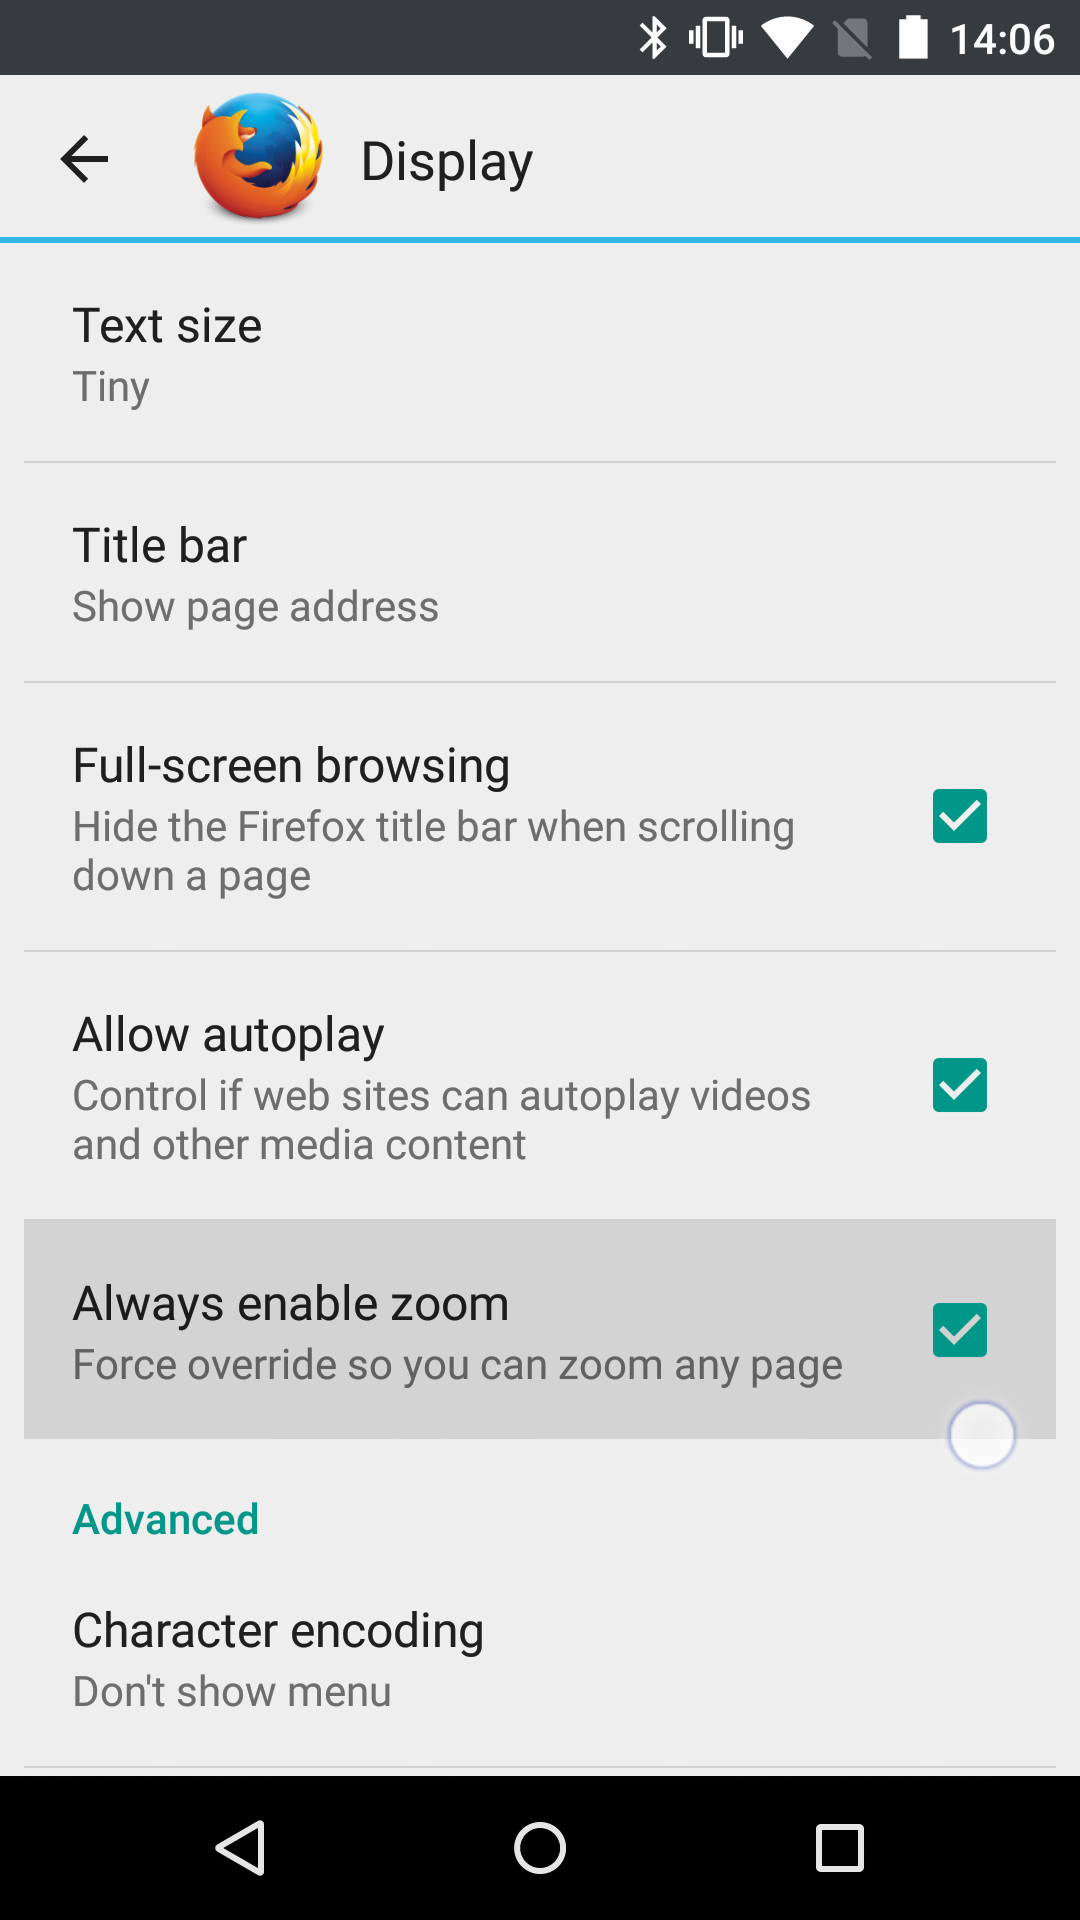
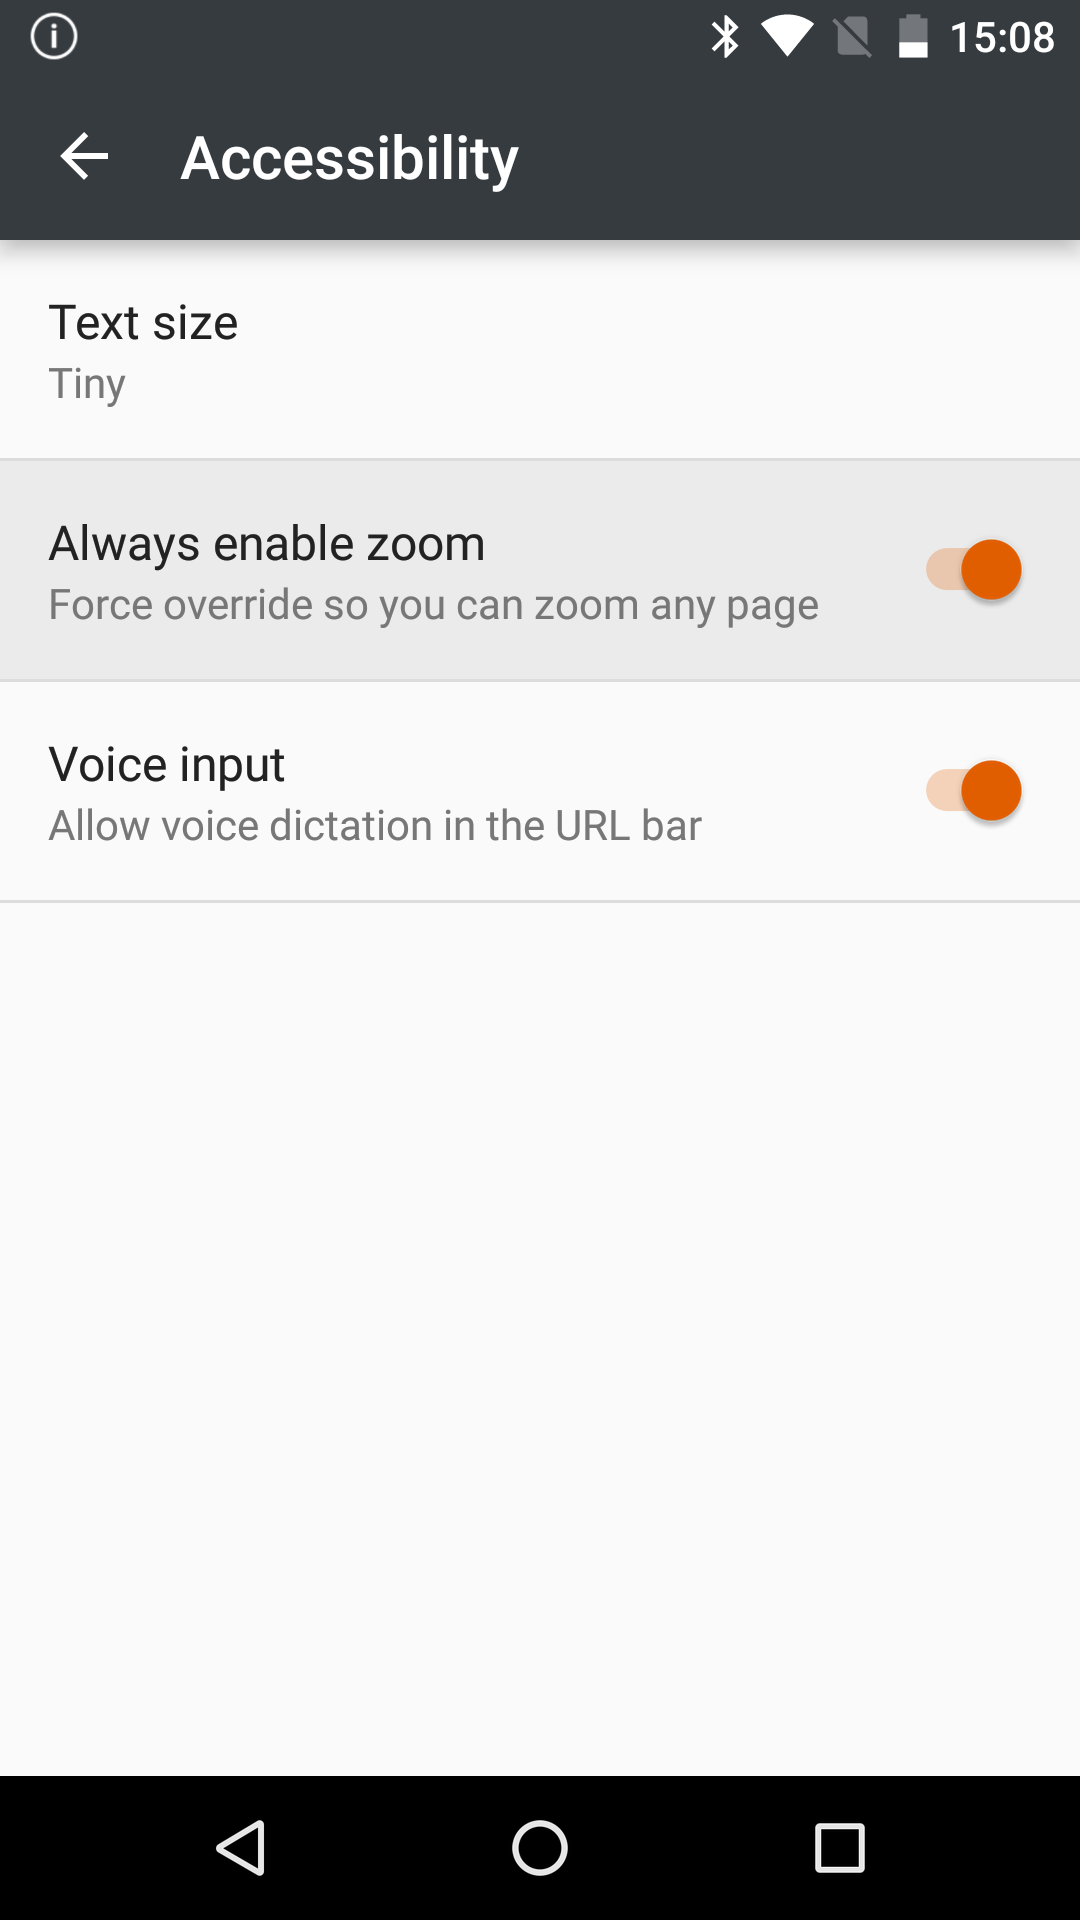
Update Firefox force enable zoom screenshot and add context to screenshots

diff --git a/index.html b/index.html
@@ -1010,24 +1010,28 @@ foo.addEventListener('click', ...);
 
 <section class="slide"><div>
     <img src="pictures/android/chrome-force-enable-zoom-settings.png" alt="Chrome's 'Force enable zoom' setting">
+    <p><small>Chrome: Settings > Accessibility > Force enable zoom</small></p>
 </div></section>
 
 <!-- -->
 
 <section class="slide"><div>
     <img src="pictures/android/opera4.3-force-enable-zoom-settings.png" alt="Opera/Android's 'Force enable zoom' setting">
+    <p><small>Opera: Settings > Force enable zoom</small></p>
 </div></section>
 
 <!-- -->
 
 <section class="slide"><div>
     <img src="pictures/android/firefox-android-force-zoom.png" alt="Firefox/Android's 'Always enable zoom' setting">
+    <p><small>Firefox: Settings > Accessibility > Always enable zoom</small></p>
 </div></section>
 
 <!-- -->
 
 <section class="slide"><div>
     <img src="pictures/android/samsung-internet-settings-manual-zoom.png" alt="Samsung Internet's 'Manual Zoom' setting">
+    <p><small>Samsung Internet: Internet settings > Manual zoom</small></p>
 </div></section>
 
 <!-- -->
